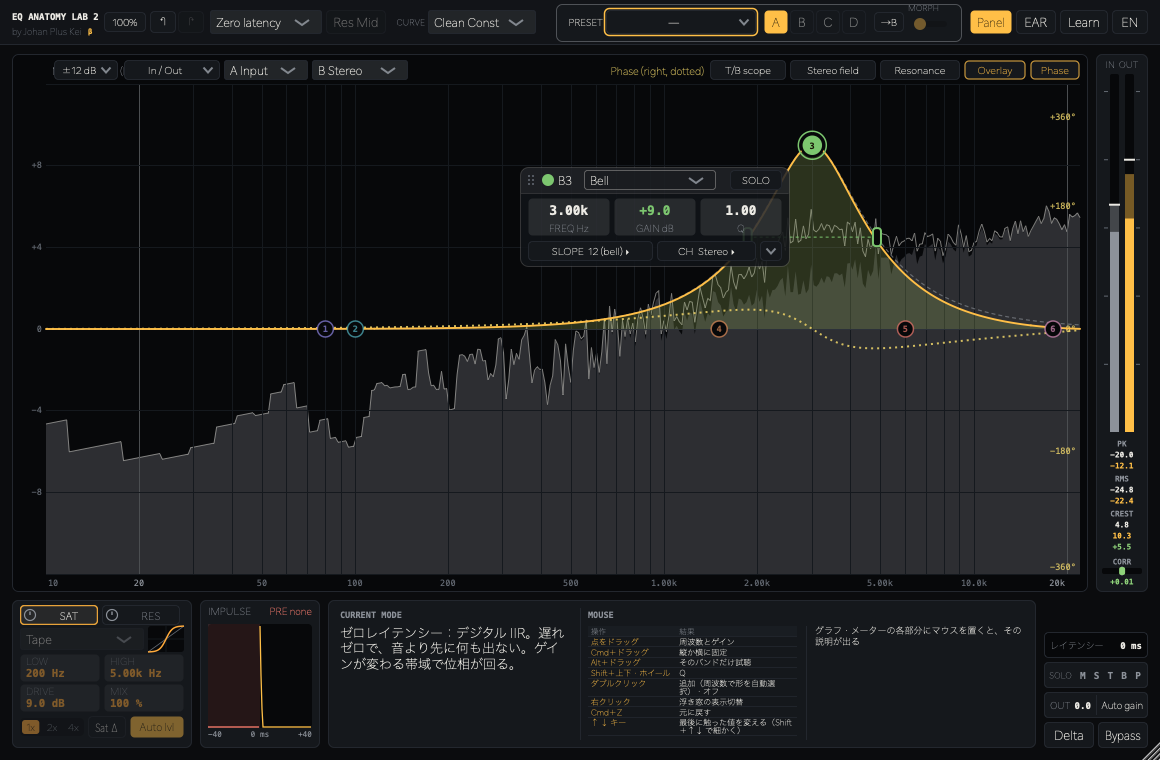
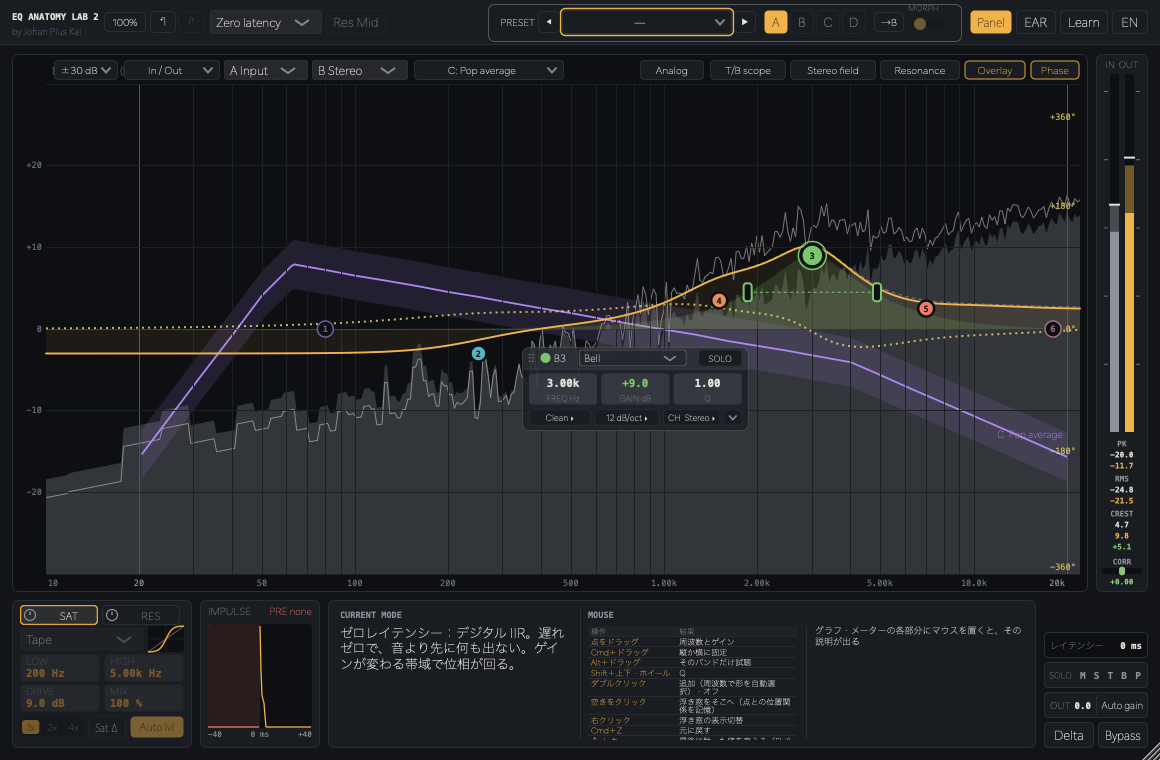
1.0.0: README / INSTALL for EQ Anatomy Lab 2 v1, new screenshots
Claude-Session: https://claude.ai/code/session_01QUV7xRkMwieUdyhABHB9ti

diff --git a/INSTALL.md b/INSTALL.md
@@ -1,19 +1,19 @@
-# EQ Anatomy Lab 2 β — インストール方法 / Installation
+# EQ Anatomy Lab 2（1.0）— インストール方法 / Installation
 
-> **ベータ版です。** Mac の Ableton Live で動作確認済み。
+> Mac の Ableton Live で動作確認済み。DAW 上の名前は **EQ Anatomy Lab 2 v1**（β 版や EQ Anatomy Lab と同時に入れられます）。
 > **Windows 版は実機での動作確認ができていません**（自動ビルドで作成）。
-> **Beta.** Tested with Ableton Live on Mac.
-> **The Windows build of Lab 2 has NOT been tested on a real Windows machine.**
+> Tested with Ableton Live on Mac. It shows up as **EQ Anatomy Lab 2 v1** (installs side by side with the beta and EQ Anatomy Lab).
+> **The Windows build has NOT been tested on a real Windows machine.**
 > 不具合は / Problems: [Issues](https://github.com/kazufumi01/EQAnatomyLab2/issues)
 
 ダウンロード / Download：[Releases ページ](https://github.com/kazufumi01/EQAnatomyLab2/releases/latest)
 
 | ファイル | 内容 |
 |---|---|
-| `EQAnatomyLab2-0.2.0-mac.zip` | Mac・手動インストール（おすすめ） |
-| `EQAnatomyLab2-0.2.0-mac.pkg` | Mac・インストーラー（ターミナルを使いたくない人向け） |
-| `EQAnatomyLab2-0.2.0-win64.zip` | Windows・手動インストール（未検証） |
-| `EQAnatomyLab2-0.2.0-win64.exe` | Windows・インストーラー（未検証） |
+| `EQAnatomyLab2v1-1.0.0-mac.zip` | Mac・手動インストール（おすすめ） |
+| `EQAnatomyLab2v1-1.0.0-mac.pkg` | Mac・インストーラー（ターミナルを使いたくない人向け） |
+| `EQAnatomyLab2v1-1.0.0-win64.zip` | Windows・手動インストール（未検証） |
+| `EQAnatomyLab2v1-1.0.0-win64.exe` | Windows・インストーラー（未検証） |
 
 ---
 
@@ -23,12 +23,12 @@
 
 1. zip をダブルクリックで展開。
 2. Finder で option キーを押しながら「移動」メニュー › 「ライブラリ」を開き、次へドラッグでコピー（フォルダが無ければ作成）：
-   - `EQ Anatomy Lab 2.component` → `ライブラリ/Audio/Plug-Ins/Components`
-   - `EQ Anatomy Lab 2.vst3` → `ライブラリ/Audio/Plug-Ins/VST3`
-   - `EQ Anatomy Lab 2.app` → `アプリケーション`（単体で使う場合のみ）
+   - `EQ Anatomy Lab 2 v1.component` → `ライブラリ/Audio/Plug-Ins/Components`
+   - `EQ Anatomy Lab 2 v1.vst3` → `ライブラリ/Audio/Plug-Ins/VST3`
+   - `EQ Anatomy Lab 2 v1.app` → `アプリケーション`（単体で使う場合のみ）
 3. ターミナルで次の1行を実行（Apple の公証をしていないため、検疫フラグを外す）：
    ```bash
-   xattr -dr com.apple.quarantine ~/Library/Audio/Plug-Ins/Components/"EQ Anatomy Lab 2.component" ~/Library/Audio/Plug-Ins/VST3/"EQ Anatomy Lab 2.vst3" /Applications/"EQ Anatomy Lab 2.app"
+   xattr -dr com.apple.quarantine ~/Library/Audio/Plug-Ins/Components/"EQ Anatomy Lab 2 v1.component" ~/Library/Audio/Plug-Ins/VST3/"EQ Anatomy Lab 2 v1.vst3" /Applications/"EQ Anatomy Lab 2 v1.app"
    ```
    .app を入れていない場合の「No such file」は無視して OK。**この手順を飛ばすと「壊れている」と表示され読み込めません。**
 4. DAW を再起動して再スキャン。Live は「設定 › プラグイン › 再スキャン」。
@@ -44,8 +44,8 @@
 
 **手動（zip）**
 1. 展開前に zip を右クリック › プロパティ › **「許可する」** にチェック › OK。
-2. 展開した `EQ Anatomy Lab 2.vst3` フォルダを丸ごと `C:\Program Files\Common Files\VST3` へコピー。
-3. DAW で再スキャン（Live は「VST3 プラグイン システムフォルダ」をオン）。単体で使う場合は `EQ Anatomy Lab 2.exe` を起動。
+2. 展開した `EQ Anatomy Lab 2 v1.vst3` フォルダを丸ごと `C:\Program Files\Common Files\VST3` へコピー。
+3. DAW で再スキャン（Live は「VST3 プラグイン システムフォルダ」をオン）。単体で使う場合は `EQ Anatomy Lab 2 v1.exe` を起動。
 
 **インストーラー（exe）**
 1. `.exe` を実行。「Windows によって PC が保護されました」→ **「詳細情報」→「実行」**。
@@ -64,12 +64,12 @@
 
 1. Unzip.
 2. In Finder, hold Option, open the Go menu › Library, and copy (create folders if missing):
-   - `EQ Anatomy Lab 2.component` → `Library/Audio/Plug-Ins/Components`
-   - `EQ Anatomy Lab 2.vst3` → `Library/Audio/Plug-Ins/VST3`
-   - `EQ Anatomy Lab 2.app` → `Applications` (standalone only)
+   - `EQ Anatomy Lab 2 v1.component` → `Library/Audio/Plug-Ins/Components`
+   - `EQ Anatomy Lab 2 v1.vst3` → `Library/Audio/Plug-Ins/VST3`
+   - `EQ Anatomy Lab 2 v1.app` → `Applications` (standalone only)
 3. In Terminal, remove the quarantine flag (the build is not notarized):
    ```bash
-   xattr -dr com.apple.quarantine ~/Library/Audio/Plug-Ins/Components/"EQ Anatomy Lab 2.component" ~/Library/Audio/Plug-Ins/VST3/"EQ Anatomy Lab 2.vst3" /Applications/"EQ Anatomy Lab 2.app"
+   xattr -dr com.apple.quarantine ~/Library/Audio/Plug-Ins/Components/"EQ Anatomy Lab 2 v1.component" ~/Library/Audio/Plug-Ins/VST3/"EQ Anatomy Lab 2 v1.vst3" /Applications/"EQ Anatomy Lab 2 v1.app"
    ```
    ("No such file" for the .app is fine if you skipped it.)
 4. Restart your DAW and rescan plug-ins.
@@ -82,6 +82,6 @@
 
 ### Windows (10 / 11, 64-bit) — UNTESTED
 
-**Manual (zip):** before extracting, right-click the zip › Properties › tick "Unblock" › OK. Copy the whole `EQ Anatomy Lab 2.vst3` folder to `C:\Program Files\Common Files\VST3` and rescan in your DAW. For standalone use, run `EQ Anatomy Lab 2.exe`.
+**Manual (zip):** before extracting, right-click the zip › Properties › tick "Unblock" › OK. Copy the whole `EQ Anatomy Lab 2 v1.vst3` folder to `C:\Program Files\Common Files\VST3` and rescan in your DAW. For standalone use, run `EQ Anatomy Lab 2 v1.exe`.
 
 **Installer (exe):** run it; if "Windows protected your PC" appears, click More info › Run anyway. VST3 is installed to `C:\Program Files\Common Files\VST3`.
